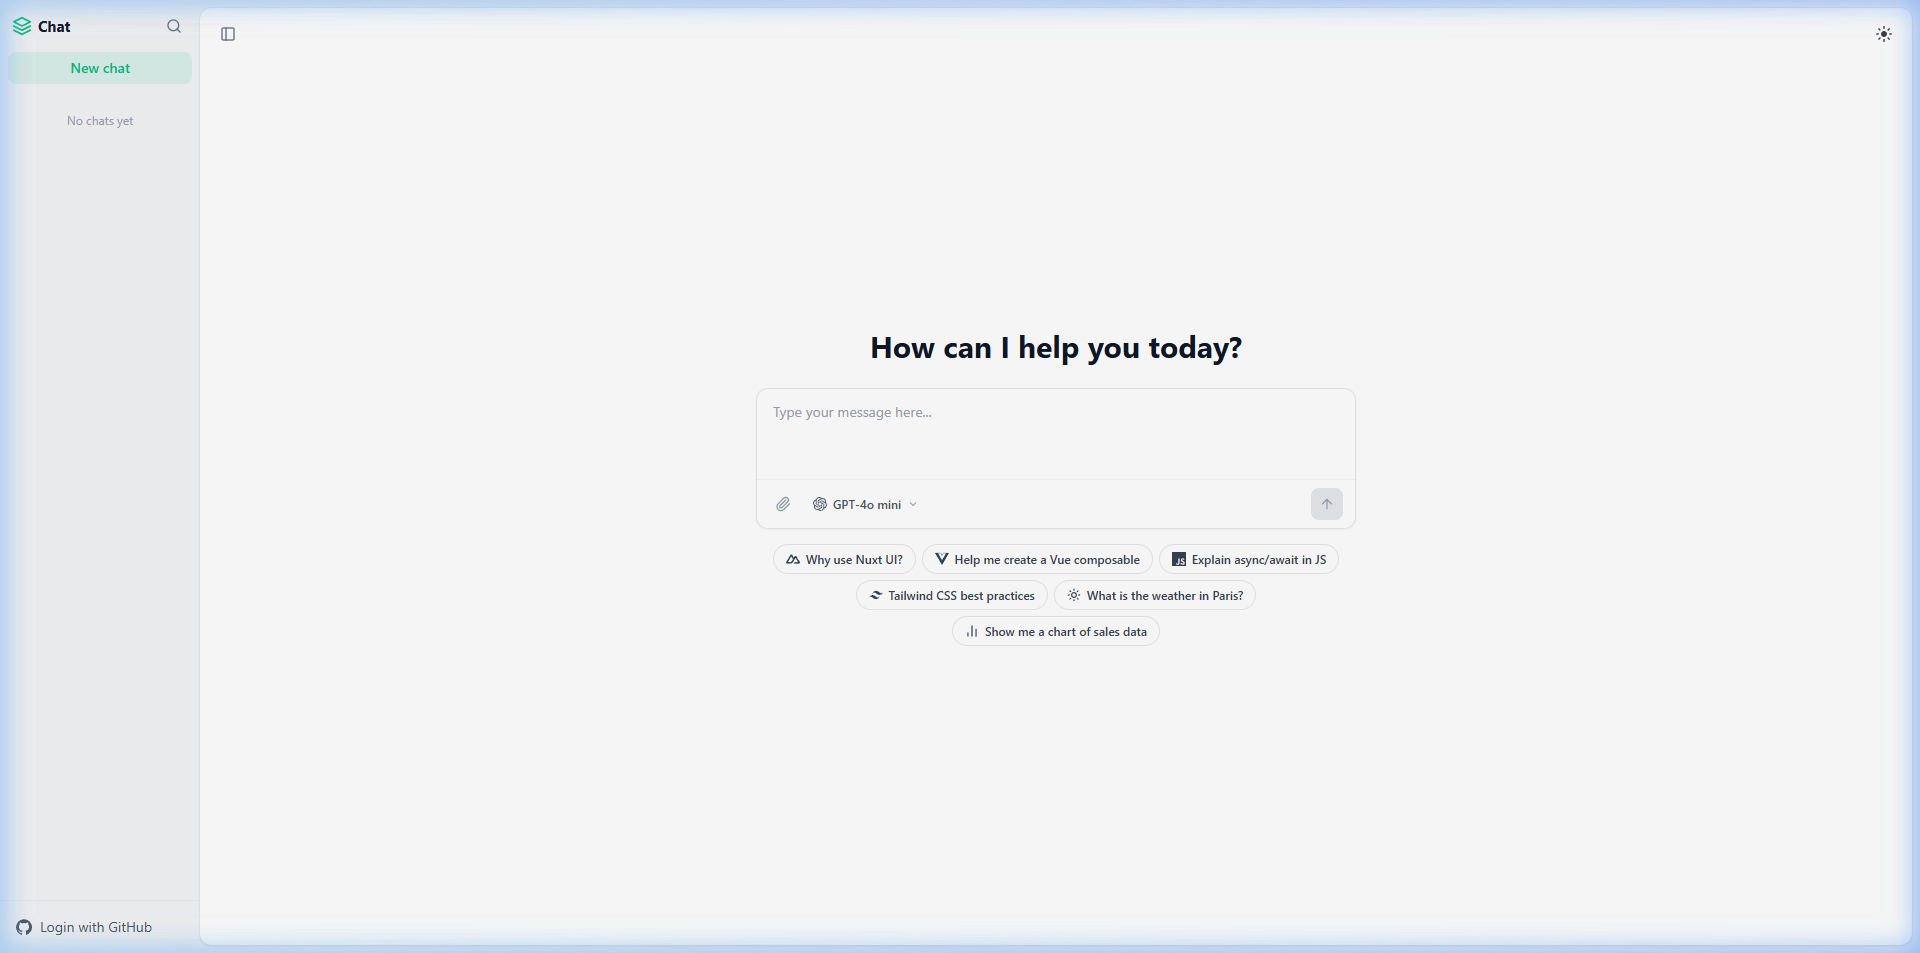
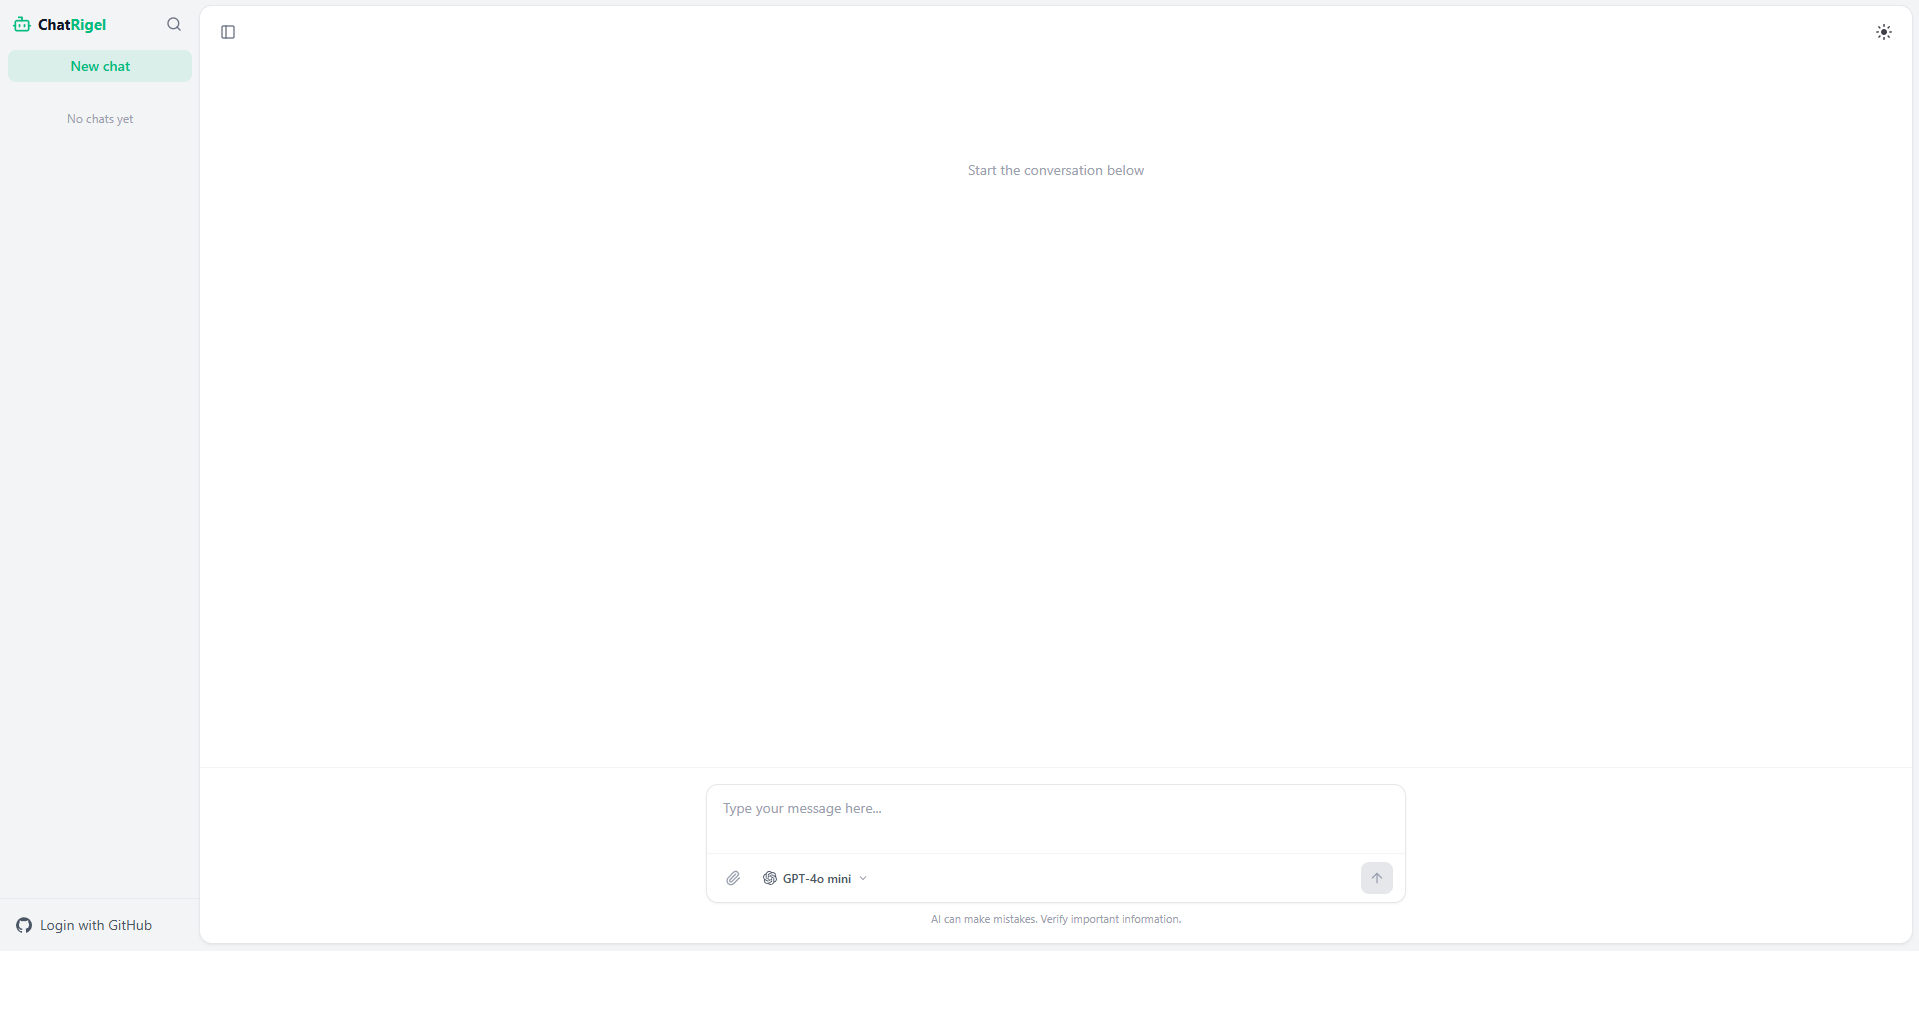
docs: update readme with nuxt ui layout features

diff --git a/README.md b/README.md
@@ -12,6 +12,7 @@ A modern, full-stack AI chatbot implementation integrated tightly into a solid L
 - **Auto-Generate Titles**: Automatically summarizes your very first chat prompt contextual message into a brief session label dynamically upon first prompt.
 - **Model Selection Mechanism**: Toggle among industry-leading Models natively via the UI Dropdown (GPT-4o, Claude 3.5 Haiku, Gemini 2.0 Flash) without losing the session context.
 - **Multi-File Context Attachments**: Effortlessly upload multiple file constraints through the paperclip interface for multimodal prompting.
+- **Nuxt UI Template Aesthetics**: The application seamlessly mimics the official Nuxt UI Chat layout, including the sleek subtle input box, model selection toggles, animated prompt chips, and a perfectly aligned sidebar brand title.
 
 ## 🚀 Getting Started
 
